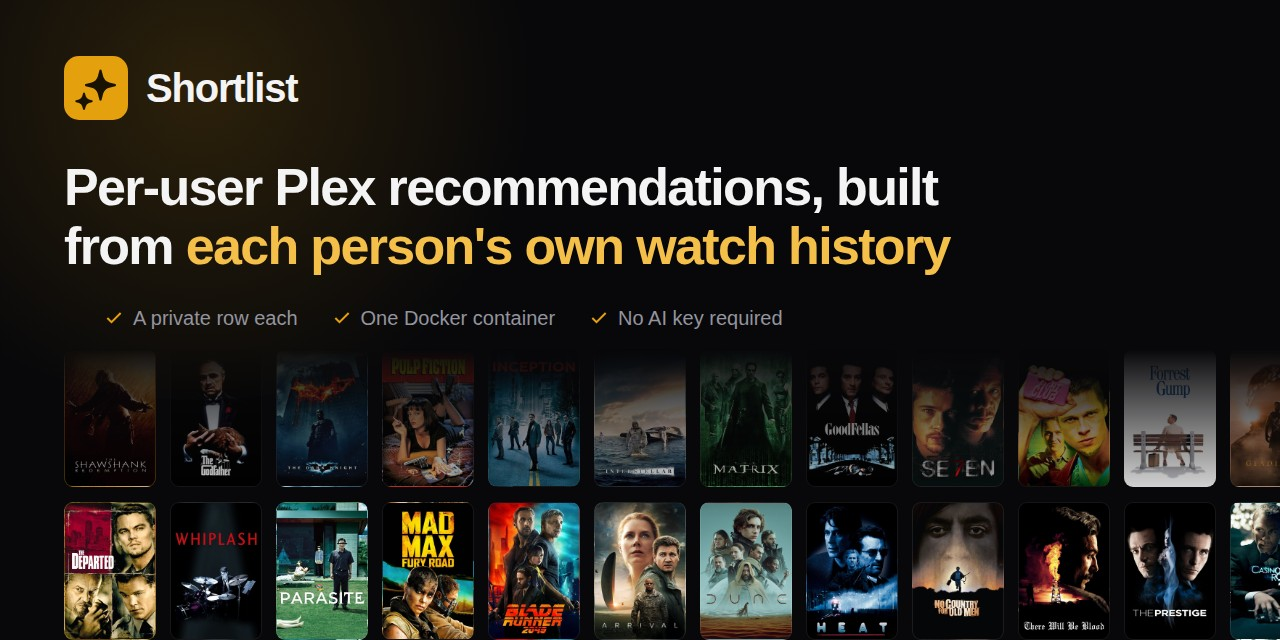
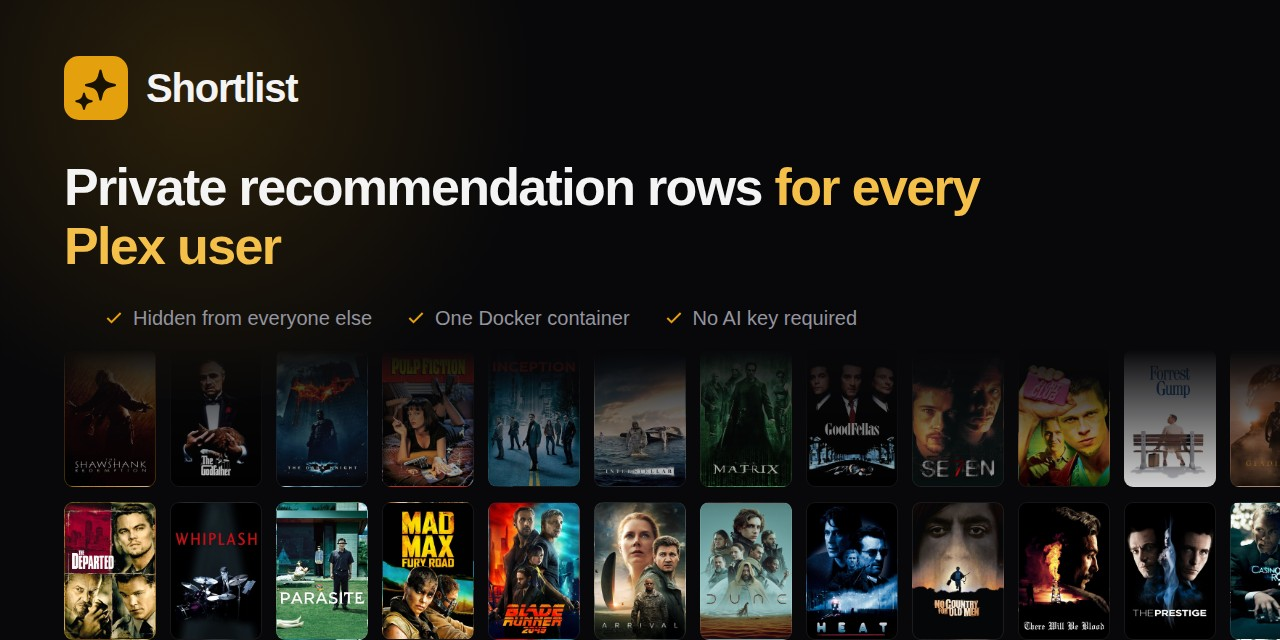
docs: every public surface says rows, not one row
README shows the template gallery in place of the setup wizard and lists six row kinds and ten templates. The same plural wording and feature list now reach llms.txt, the Docker Hub overview, the Unraid template and CA profile (no longer 'public beta'), the FAQ, getting started, the comparison page, the social preview card, pyproject's description and the app's meta description. The rows guide shows the template gallery too.

Changed region(s): [[0.0312, 0.25, 0.7812, 0.4375], [0.0938, 0.4688, 0.6562, 0.5312]]

diff --git a/tests/e2e/assets/social_preview.html b/tests/e2e/assets/social_preview.html
@@ -184,8 +184,8 @@
     </div>
 
     <h1 class="headline">
-      Per-user Plex recommendations, built from
-      <em>each person's own watch history</em>
+      Private recommendation rows
+      <em>for every Plex user</em>
     </h1>
 
     <ul class="points">
@@ -193,7 +193,7 @@
         <svg viewBox="0 0 24 24" fill="none" stroke="currentColor" stroke-width="2.4">
           <path d="M20 6 9 17l-5-5" />
         </svg>
-        A private row each
+        Hidden from everyone else
       </li>
       <li>
         <svg viewBox="0 0 24 24" fill="none" stroke="currentColor" stroke-width="2.4">

diff --git a/web/index.html b/web/index.html
@@ -8,6 +8,7 @@
          rewrites under APP_BASE_PATH. A bare /favicon.svg would load from the proxy's root. -->
     <link rel="icon" type="image/svg+xml" href="/src/favicon.svg" />
     <title>Shortlist</title>
+    <meta name="description" content="Private recommendation rows for every Plex user." />
   </head>
   <body>
     <div id="root"></div>

diff --git a/README.md b/README.md
@@ -57,10 +57,11 @@ built today carry none.</sub>
 Everyone on a Plex server has the same blank-screen problem: a huge library and no idea what to put
 on. Plex's own recommendation rows are identical for every account and ignore what _you've_ watched.
 
-**Shortlist gives every user their own row.** For each person it reads their own Plex watch history,
+**Shortlist gives every user their own rows.** For each person it reads their own Plex watch history,
 picks titles from your library they haven't seen but probably want to, explains each one, and puts
-them on that person's Plex Home as a **"Picked for You"** row. It rebuilds on a schedule you choose,
-and each row is visible only to its owner.
+them on that person's Plex Home as rows: **"Picked for You"**, "Because you watched", "Watch it
+again", seasonal picks and more. Rows rebuild on a schedule you choose, and each personal row is
+visible only to its owner.
 
 **Rows are hidden before they are shown.** Each row is labelled, every other account's Plex share
 filter is told to hide that label, and only then is the row promoted to Home. A row is never visible
@@ -90,9 +91,9 @@ is private.
 
 ## What it looks like
 
-| Set up your Plex server once                                        | Add as many rows as you like           |
-| ------------------------------------------------------------------- | -------------------------------------- |
-| ![The setup wizard connecting Plex](docs/images/wizard-connect.webp) | ![The rows page](docs/images/rows.webp) |
+| Start each row from a template                                        | Add as many rows as you like           |
+| --------------------------------------------------------------------- | -------------------------------------- |
+| ![The Add a row template gallery](docs/images/templates.webp) | ![The rows page](docs/images/rows.webp) |
 
 | Every pick, and _why_ it was picked                    | Watch every run, step by step                    |
 | ------------------------------------------------------ | ------------------------------------------------ |
@@ -105,8 +106,8 @@ but nobody pictured here watched anything.</sub>
 
 **Personalized discovery**
 
-- 👤 **A private row for every user**, built from _their_ watch history and visible only to them. The
-  owner gets a row too, so it's worth running on a one-person server.
+- 👤 **Private rows for every user**, built from _their_ watch history and visible only to them. The
+  owner gets rows too, so it's worth running on a one-person server.
 - 🧠 **Picks that exist, with no AI key needed.** Every pick is a title verified to be in your library,
   never invented. Ranking and the reasons are written in code. An optional AI provider (Claude, GPT,
   Gemini, or a local server such as Ollama, llama.cpp, LM Studio, vLLM or LocalAI) powers one extra
@@ -123,9 +124,10 @@ but nobody pictured here watched anything.</sub>
 
 **Make it yours**
 
-- 🎞 **Multiple rows per person, plus shared rows**: a personal row, a "New this week" everyone sees,
-  per-library rows. Each has its own sources, size, libraries, cadence and audience, and starts from
-  a template rather than a blank form.
+- 🎞 **Six row kinds, ten templates.** Picked for You, Because you watched, Watch it again, Popular on
+  this server (shared), Seasonal and Your requests. Start each row from a template (Fresh finds, From
+  the vault, Movie night and More TV to watch are the others) rather than a blank form. Every row has
+  its own sources, size, libraries, cadence and audience, and you can add as many as you like.
 - 🗓 **A rebuild cadence you control**: nightly, weekly, monthly or never, so nobody opens Plex to a
   completely reshuffled row every day.
 - 🎃 **Seasonal rows**: one row that follows the calendar: Halloween, Christmas, Valentine's Day plus ten
@@ -154,8 +156,8 @@ but nobody pictured here watched anything.</sub>
   your server exactly as Shortlist found it.
 - 📊 **Know if it's working.** A dashboard tracks what was delivered against what people actually
   watched, per user and per row, and separates a title they **started** from one they **finished**.
-- 🖥 **A clear dashboard.** Dashboard, Users and Activity pages, a row editor with a jump list, and
-  three-tab Settings. See [the interface guide](https://shortlistapp.dev/guides/interface/).
+- 🖥 **A clear dashboard.** Dashboard, Users, Privacy, Runs (with a per-person "How we picked") and Activity pages, including
+  "Changes on Plex", a row editor with a jump list, and three-tab Settings. See [the interface guide](https://shortlistapp.dev/guides/interface/).
 - 🧪 **Safe mode.** Set `SHORTLIST_DRY_RUN=1` to try it against your real server without writing a
   single change.
 - 📦 **Homelab-native**: one container, a `/config` volume, a multi-arch image on GHCR, a healthcheck

diff --git a/docs/plex-recommendation-tools.md b/docs/plex-recommendation-tools.md
@@ -16,7 +16,7 @@ toc: false
 <span class="answer__date">As of <time datetime="{{ page.facts_checked | date: '%Y-%m-%d' }}">{{ page.facts_checked | date: "%-d %B %Y" }}</time></span>
 </div>
 <ul class="verdicts">
-<li class="verdicts__ours"><span class="verdicts__tool"><a href="#shortlist">Shortlist</a></span><span class="verdicts__need">For private per-user rows: each person gets their own row on their Plex Home, hidden from every other account.</span></li>
+<li class="verdicts__ours"><span class="verdicts__tool"><a href="#shortlist">Shortlist</a></span><span class="verdicts__need">For private per-user rows: each person gets their own rows (Picked for You, Because you watched, seasonal and more) on their Plex Home, hidden from every other account.</span></li>
 <li><span class="verdicts__tool"><a href="#immaculaterr">Immaculaterr</a></span><span class="verdicts__need">For the richest set of automatic collections, reacting in real time, when it doesn&rsquo;t matter who sees whose row.</span></li>
 <li><span class="verdicts__tool"><a href="#curatarr">Curatarr</a></span><span class="verdicts__need">For per-user collections without Docker: standalone binaries for Windows, macOS and Linux.</span></li>
 <li><span class="verdicts__tool"><a href="#suggestarr">SuggestArr</a></span><span class="verdicts__need">For getting new content: it requests titles like what you watched through Seerr.</span></li>
@@ -56,7 +56,7 @@ the last group can be private, and that is where they differ most.
 <td><span class="yes">Yes</span><span class="q">only after the hiding is in place</span></td>
 <td><span class="yes">Yes</span><span class="q">built-in picker needs no key</span></td>
 <td><span class="yes">Yes</span><span class="q">v1.9.3, 27 Sep 2026</span></td>
-<td class="compare__pick">each person should get a row nobody else can see</td>
+<td class="compare__pick">each person should get rows nobody else can see</td>
 </tr>
 <tr>
 <td><a href="#immaculaterr">Immaculaterr</a></td>
@@ -158,9 +158,10 @@ the last group can be private, and that is where they differ most.
 
 ### Shortlist
 
-Per-user "Picked for You" rows built from each person's own watch history, made private with Plex's
-label restrictions. Every other account's share filter gets `label!=shortlist_<user>` merged into it,
-so the row is hidden from other supported accounts. The
+Per-user rows (Picked for You, Because you watched, Watch it again, seasonal picks, a "Your requests"
+row and a shared Popular on this server row, from ten templates) built from each person's own watch
+history, made private with Plex's label restrictions. Every other account's share filter gets `label!=shortlist_<user>` merged into it,
+so each personal row is hidden from other supported accounts. The
 [server owner and some restriction profiles](plex-per-user-collections.md#two-things-to-watch-out-for)
 are exceptions. Rows are delivered unpromoted, exclusions merged, and only then promoted onto Home.
 
@@ -173,7 +174,7 @@ Plex-only, and it will stay that way: the privacy model depends on Plex's label-
 which Jellyfin and Emby don't have. Needs Plex Media Server 1.43.2.10687+ and a Plex Pass on the
 admin account. MIT.
 
-<p class="pick"><strong>Pick this if</strong> each person on your server should get their own row, and nobody else should see it.</p>
+<p class="pick"><strong>Pick this if</strong> each person on your server should get their own rows, and nobody else should see them.</p>
 
 ### Immaculaterr
 

diff --git a/.github/dockerhub-overview.md b/.github/dockerhub-overview.md
@@ -1,7 +1,8 @@
 # Shortlist
 
 Shortlist is a free, open-source, self-hosted tool that gives each person on your Plex server their
-own Picked for You row, built from what they watched and hidden from everyone else. One Docker
+own recommendation rows (Picked for You, Because you watched, seasonal picks, the titles they asked
+for), built from what they watched and hidden from everyone else. One Docker
 container, no AI key required.
 
 [Website](https://shortlistapp.dev/) ·
@@ -18,10 +19,10 @@ Everyone on your Plex server sees the same recommendation rows. Plex's Recommend
 come from the library, not from the person looking at it — so the friend who has watched every
 sci-fi film you own and the one who only watches comedies get an identical home screen.
 
-Shortlist gives **each user their own row**, built from **their own** watch history, containing only
+Shortlist gives **each user their own rows**, built from **their own** watch history, containing only
 titles that are **already in your library** and that they haven't seen.
 
-And it's private: each person sees only their own row, nobody else's.
+And it's private: each person sees only their own rows, nobody else's.
 
 ## How the privacy works
 
@@ -83,19 +84,21 @@ Multi-arch: `linux/amd64` and `linux/arm64`.
 
 ## What you get
 
-- **A private row for every user**, built from their watch history. One container serves your whole
+- **Private rows for every user**, built from their watch history. One container serves your whole
   server, including you, so it's just as useful on a one-person server.
 - **No AI key required.** The built-in picker runs entirely in code. An optional LLM (Claude, GPT,
   Gemini, or a local model via Ollama, llama.cpp, LM Studio, vLLM or LocalAI) adds one extra source,
   a live web search for current titles TMDB and Trakt miss.
 - **No hallucinated picks.** Every title is verified to exist in your library before it's delivered.
 - **Every pick explains itself** — "Because you watched _Arrival_".
-- **Multiple rows per person, plus shared rows**, each with its own sources, size, libraries,
-  refresh cadence and audience.
-- **Seasonal rows** — one row that follows the calendar: Halloween films and horror in October,
-  Christmas films in December, romance for Valentine's, ranked for each person and hidden between
-  seasons.
-- **Radarr/Sonarr or Overseerr requests (optional)** when a strong pick isn't in your library yet.
+- **Six row kinds, ten templates**: Picked for You, Because you watched, Watch it again, Popular on
+  this server (shared), Seasonal and Your requests. Add as many rows as you like, each with its own
+  sources, size, libraries, refresh cadence and audience.
+- **Seasonal rows** — a row that follows the calendar: Halloween, Christmas and Valentine's Day,
+  ten ready-made holidays such as Thanksgiving and Easter, or your own dates. Ranked for each person
+  and hidden between seasons.
+- **Radarr/Sonarr or Overseerr requests (optional)** when a strong pick isn't in your library yet,
+  with an approval inbox.
 - **A "Your requests" row** — what each person asked for in Overseerr, or tagged with
   their name in Radarr/Sonarr, once it's on Plex and until they've watched it. No AI; a person with
   nothing ready simply has no row.

diff --git a/docs/guides/rows.md b/docs/guides/rows.md
@@ -25,6 +25,13 @@ and _More TV to watch_. **Rows → Add a row** opens the compact gallery, with s
 preview of the selected template. Each tile describes what it changes; every field remains editable
 afterwards. **Use template** opens the editor; **Start from scratch** opens an empty row directly.
 _Your requests_ is for titles someone requested that are now ready on Plex.
+
+<figure class="shot">
+  <img src="{{ '/images/templates.webp' | relative_url }}" width="1440" height="860" loading="lazy"
+       alt="The Add a row dialog: ten template tiles, a search box and category tabs, with the selected template's preview and settings on the right.">
+  <figcaption><strong>Rows → Add a row</strong>: ten templates, each with a preview before you commit.</figcaption>
+</figure>
+
 In the editor, **Per person / Shared** stays visible above **Row type**, whichever template you
 start from. The template selects a starting choice; you can change it before saving.
 

diff --git a/docs/getting-started.md b/docs/getting-started.md
@@ -1,6 +1,6 @@
 ---
 title: Install Shortlist for Plex with Docker
-description: Requirements, Docker install, first login and the setup wizard that connects your Plex server and builds each user's first personalized row.
+description: Requirements, Docker install, first login and the setup wizard that connects your Plex server and builds each user's first personalized rows.
 heading: Getting started
 updated: 2026-10-03
 ---
